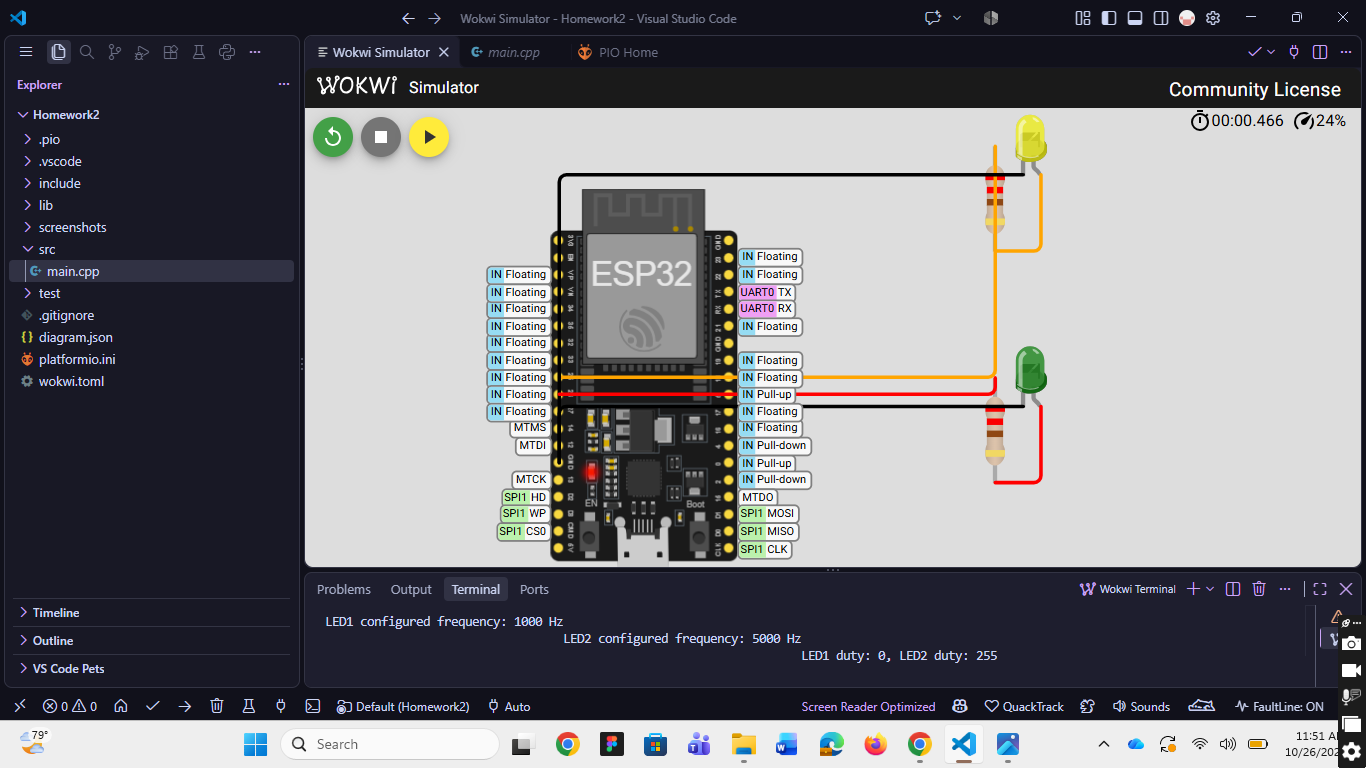
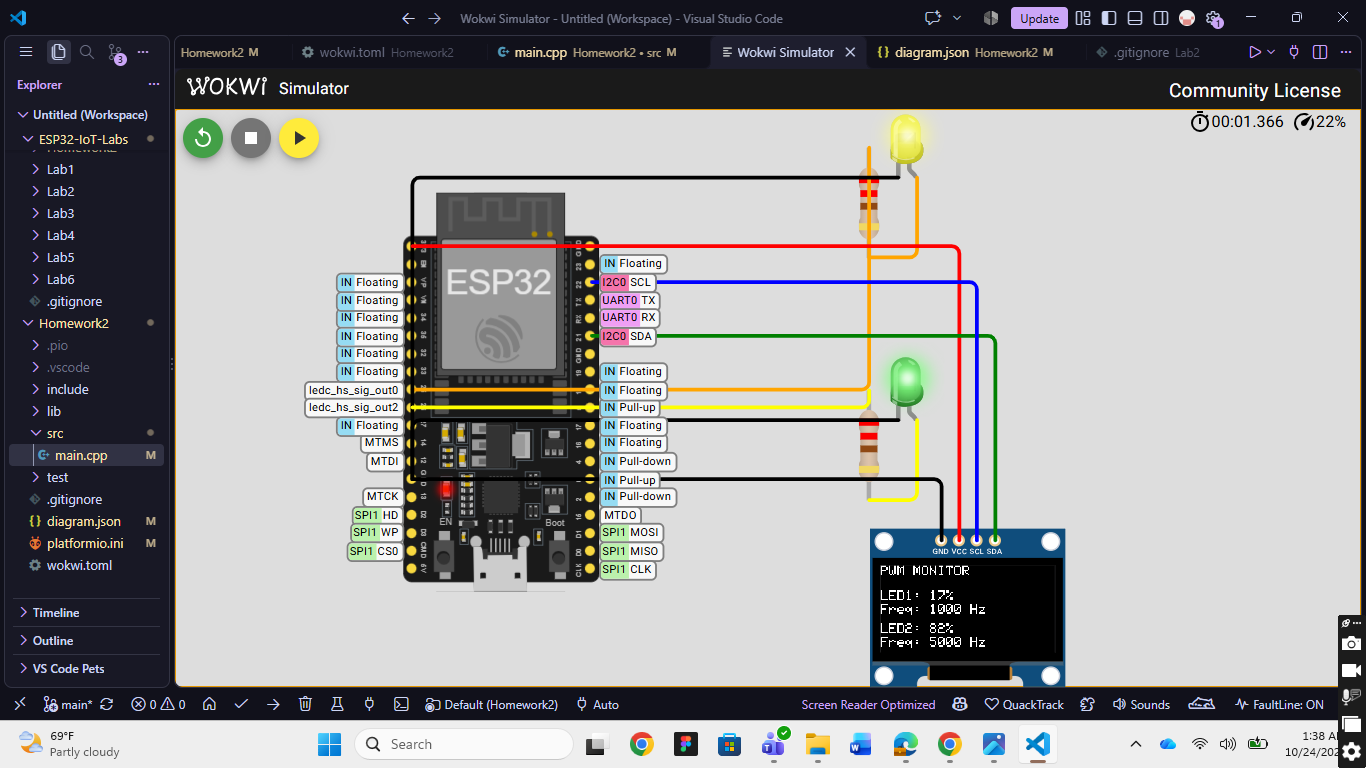
Complete Homework

diff --git a/Homework2/src/main.cpp b/Homework2/src/main.cpp
@@ -1,39 +1,106 @@
 #include <Arduino.h>
+#include <Wire.h>
+#include <Adafruit_GFX.h>
+#include <Adafruit_SSD1306.h>
 
 // LED GPIO pins
-const int LED1 = 25;
-const int LED2 = 26;
+const int LED1 = 18;
+const int LED2 = 19;
 
 // Separate LEDC channels
 const int CHANNEL1 = 0;
 const int CHANNEL2 = 2;
 
-// Different PWM frequencies
+// PWM settings
 const int FREQ1 = 1000;
 const int FREQ2 = 5000;
 const int RESOLUTION = 8;
 
+// OLED settings
+#define SCREEN_WIDTH 128
+#define SCREEN_HEIGHT 64
+#define OLED_RESET -1
+#define OLED_ADDRESS 0x3C
+
+Adafruit_SSD1306 display(
+    SCREEN_WIDTH, SCREEN_HEIGHT, &Wire, OLED_RESET);
+
 // Duty-cycle values: 0 to 255
 int duty1 = 0;
-int duty2 = 0;
+int duty2 = 255;
+
+void updateOLED()
+{
+    int percent1 = (duty1 * 100) / 255;
+    int percent2 = (duty2 * 100) / 255;
+
+    display.clearDisplay();
+    display.setTextSize(1);
+    display.setTextColor(SSD1306_WHITE);
+
+    display.setCursor(0, 0);
+    display.println("PWM MONITOR");
+
+    display.setCursor(0, 18);
+    display.print("LED1: ");
+    display.print(percent1);
+    display.print("%");
+
+    display.setCursor(0, 28);
+    display.print("Freq: ");
+    display.print(FREQ1);
+    display.println(" Hz");
+
+    display.setCursor(0, 42);
+    display.print("LED2: ");
+    display.print(percent2);
+    display.print("%");
+
+    display.setCursor(0, 52);
+    display.print("Freq: ");
+    display.print(FREQ2);
+    display.println(" Hz");
+
+    display.display();
+}
 
 void setup()
 {
     Serial.begin(115200);
 
-    double actualFreq1 = ledcSetup(CHANNEL1, FREQ1, RESOLUTION);
+    // Start I2C: SDA = GPIO 21, SCL = GPIO 22
+    Wire.begin(21, 22);
+    Wire.setClock(400000);   // faster I2C so the OLED updates quickly
+
+    if (!display.begin(SSD1306_SWITCHCAPVCC, OLED_ADDRESS))
+    {
+        Serial.println("OLED initialization failed!");
+        while (true)
+        {
+            delay(100);
+        }
+    }
+
+    display.clearDisplay();
+    updateOLED();
+
+    double actualFreq1 =
+        ledcSetup(CHANNEL1, FREQ1, RESOLUTION);
     ledcAttachPin(LED1, CHANNEL1);
 
-    double actualFreq2 = ledcSetup(CHANNEL2, FREQ2, RESOLUTION);
+    double actualFreq2 =
+        ledcSetup(CHANNEL2, FREQ2, RESOLUTION);
     ledcAttachPin(LED2, CHANNEL2);
 
-    Serial.printf("LED1 configured frequency: %.0f Hz\n", actualFreq1);
-    Serial.printf("LED2 configured frequency: %.0f Hz\n", actualFreq2);
+    Serial.printf("LED1 configured frequency: %.0f Hz\n",
+                  actualFreq1);
+    Serial.printf("LED2 configured frequency: %.0f Hz\n",
+                  actualFreq2);
 }
 
 void loop()
 {
-    // Fade LED 1 up and LED 2 down
+    // LED1 fades up; LED2 fades down
     for (int duty = 0; duty <= 255; duty += 3)
     {
         duty1 = duty;
@@ -42,16 +109,12 @@ void loop()
         ledcWrite(CHANNEL1, duty1);
         ledcWrite(CHANNEL2, duty2);
 
-        if (duty % 25 == 0)
-        {
-            Serial.printf("LED1 duty: %d, LED2 duty: %d\n",
-                          duty1, duty2);
-        }
+        updateOLED();
 
         delay(10);
     }
 
-    // Fade LED 1 down and LED 2 up
+    // LED1 fades down; LED2 fades up
     for (int duty = 255; duty >= 0; duty -= 3)
     {
         duty1 = duty;
@@ -59,6 +122,8 @@ void loop()
 
         ledcWrite(CHANNEL1, duty1);
         ledcWrite(CHANNEL2, duty2);
+
+        updateOLED();
 
         delay(10);
     }

diff --git a/Homework2/Readme.md b/Homework2/Readme.md
@@ -1,0 +1,111 @@
+# Embedded IoT Homework 2: Dual PWM LED Control with OLED Monitoring
+
+An ESP32 project that fades two LEDs using different PWM frequencies (Task 1)
+and then shows the live duty cycle and frequency of each LED on an SSD1306
+OLED display (Task 2). It was built and tested in the Wokwi simulator and on
+a physical ESP32 board.
+
+## Links
+- Wokwi simulation: https://wokwi.com/projects/478705583352034305
+- GitHub repository: https://github.com/Laiba-Sohail-08/24-NTU-CS-FL-1042/
+
+## Components
+- ESP32 development board
+- 2 LEDs
+- 2 resistors, 220 ohm (one for each LED)
+- SSD1306 128x64 I2C OLED display
+- Breadboard and jumper wires
+
+## Task 1: PWM Control of Two LEDs
+
+---
+
+### Description
+The ESP32 controls two LEDs using PWM (Pulse Width Modulation). The LEDs fade
+in opposite directions: when LED 1 gets brighter, LED 2 gets dimmer, and then
+they swap. Each LED uses a different PWM frequency.
+
+### Wiring (Task 1)
+| Component | ESP32 pin |
+|---|---|
+| LED 1 (through 220 ohm resistor) | GPIO 25 |
+| LED 2 (through 220 ohm resistor) | GPIO 26 |
+| LED cathodes (short legs) | GND |
+
+### PWM settings
+| LED | GPIO | Frequency | Resolution | Duty range |
+|---|---|---|---|---|
+| LED 1 | 25 | 1000 Hz | 8-bit | 0 to 255 |
+| LED 2 | 26 | 5000 Hz | 8-bit | 0 to 255 |
+
+---
+
+## Task 2: OLED PWM Monitor
+
+### Description
+An SSD1306 OLED is added to the same project. It displays the duty-cycle
+percentage and the configured PWM frequency of both LEDs, and updates while
+the LEDs fade.
+
+### Wiring (Task 2)
+| Component | ESP32 pin |
+|---|---|
+| LED 1 (through 220 ohm resistor) | GPIO 18 |
+| LED 2 (through 220 ohm resistor) | GPIO 19 |
+| LED cathodes (short legs) | GND |
+| OLED VCC | 3V3 |
+| OLED GND | GND |
+| OLED SDA | GPIO 21 |
+| OLED SCL | GPIO 22 |
+
+The OLED I2C address is `0x3C`.
+
+### PWM settings
+| LED | GPIO | Frequency | Resolution | Duty range |
+|---|---|---|---|---|
+| LED 1 | 18 | 1000 Hz | 8-bit | 0 to 255 |
+| LED 2 | 19 | 5000 Hz | 8-bit | 0 to 255 |
+
+### OLED output
+The display shows:
+
+    PWM MONITOR
+    LED1: <duty %>
+    Freq: 1000 Hz
+    LED2: <duty %>
+    Freq: 5000 Hz
+
+---
+
+## How it works
+
+### PWM and duty cycle
+PWM switches a pin ON and OFF very quickly. The **duty cycle** is the
+percentage of each cycle that the pin is ON. A higher duty cycle means the LED
+is on for longer, so it looks brighter. A lower duty cycle looks dimmer.
+
+### PWM frequency
+The **frequency** is how many ON/OFF cycles happen each second. At 1000 Hz and
+5000 Hz the switching is too fast for the eye to see, so the LED looks steadily
+lit, and its brightness depends on the duty cycle. The two LEDs use different
+frequencies to show that each PWM output can be configured independently.
+
+### Duty cycle control
+The program uses 8-bit resolution, so the duty value goes from 0 (always off)
+to 255 (always on). A loop raises the value from 0 to 255 in steps of 3 and
+then lowers it back to 0. LED 1 uses this value directly and LED 2 uses
+`255 - value`, which makes them fade in opposite directions. The percentage
+shown on the OLED is `duty x 100 / 255`.
+
+### LEDC timer limitation
+The ESP32 generates PWM with its LEDC peripheral. Each LEDC timer has one
+frequency, and channels that share a timer share that frequency. To use two
+different frequencies, the two LEDs must use channels on different timers. This
+project uses channels 0 and 2, which use different timers. The program also
+prints the real frequency returned by `ledcSetup()` to the serial monitor to
+verify the setting. Other ESP32 variants have different timer layouts, so this
+should be checked for each chip.
+
+### OLED values match the program
+The same variables (`duty1` and `duty2`) are written to the LEDs and drawn on
+the OLED, so the display always shows the
